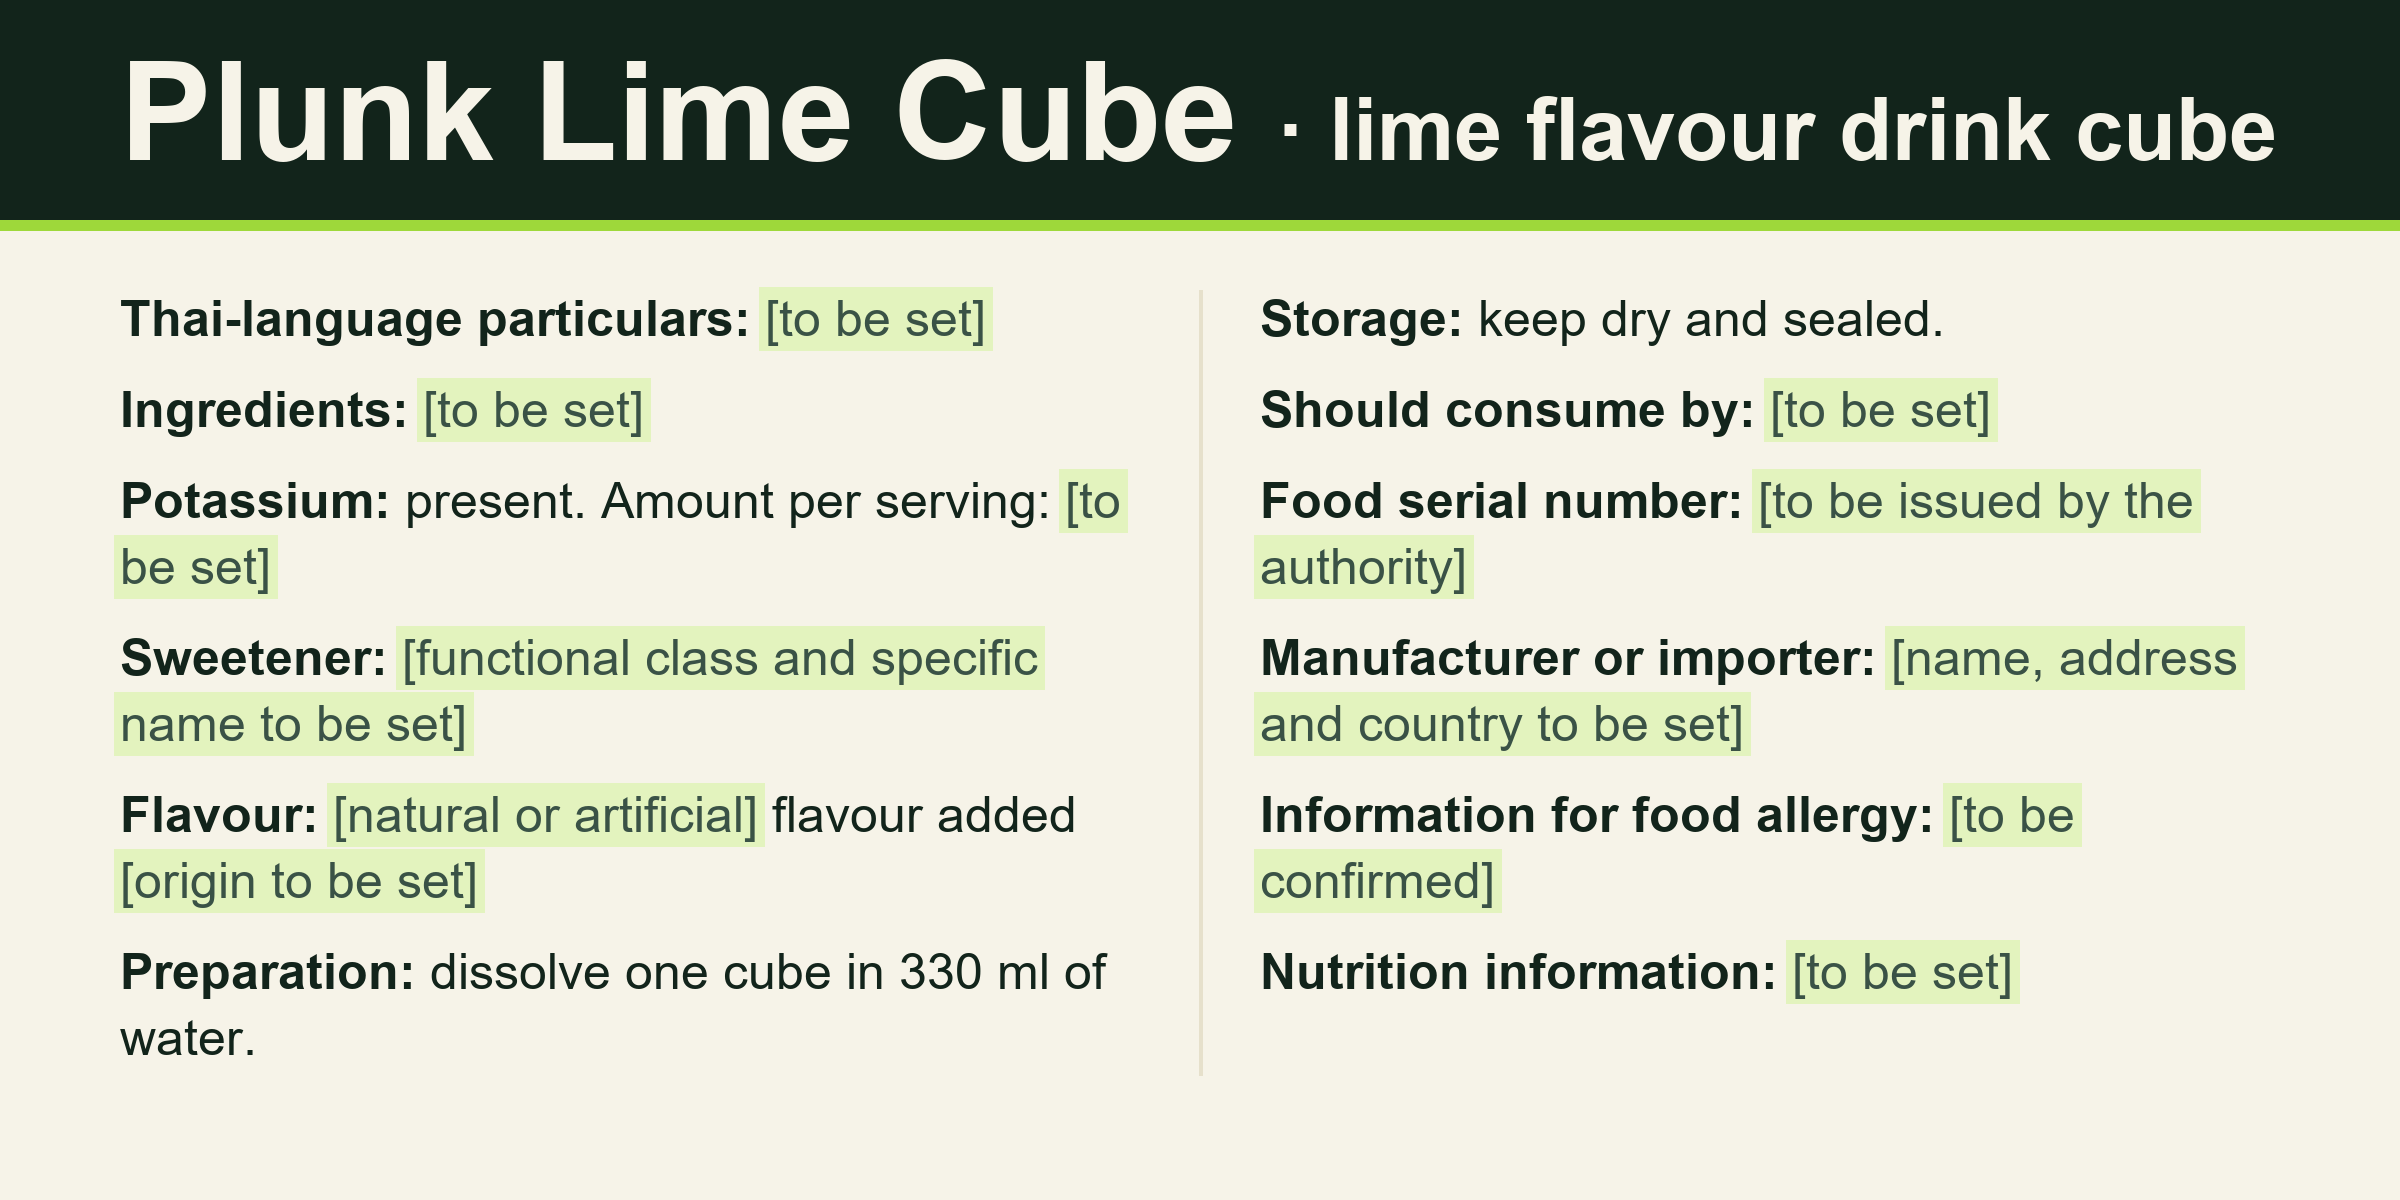
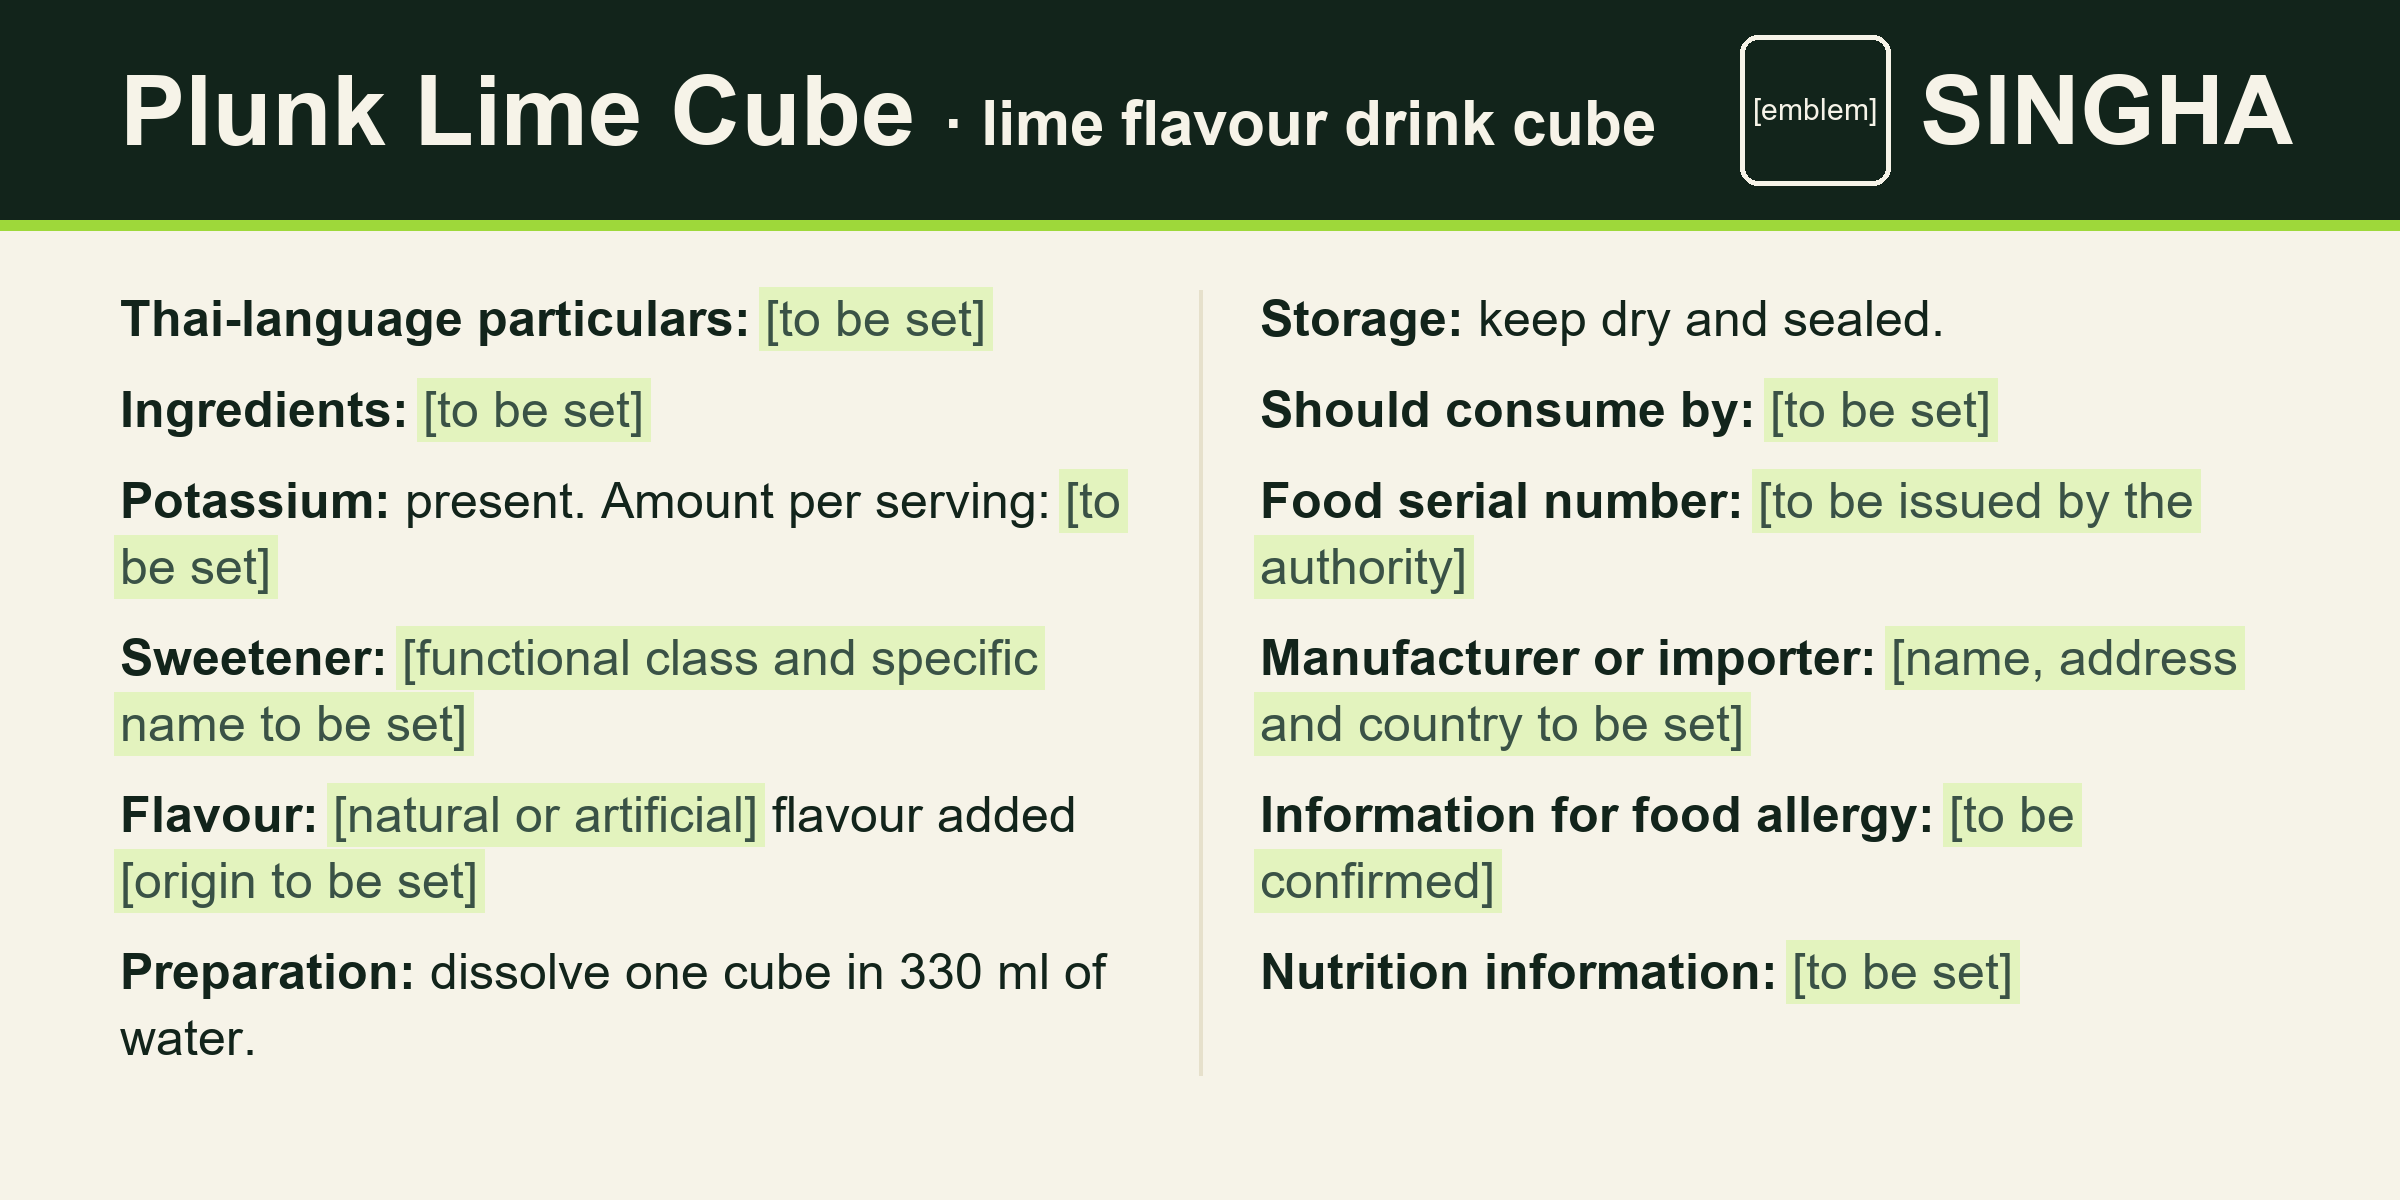
Add the SINGHA wordmark and an emblem slot to the label; allow the authorized marks in the wording check
The SINGHA name and lion emblem are authorized for the product proposal. The
front and back label now carry a SINGHA mark row with an emblem slot. The
emblem artwork is not yet on disk, so the slot stays a placeholder. The
wording check no longer forbids the words emblem or wordmark, and the SINGHA
digest is removed. Other organiser terms stay blocked.

Changed region(s): [[0.0312, 0.0308, 0.9688, 0.1542]]

diff --git a/rework/mockup/cube_3d.html b/rework/mockup/cube_3d.html
@@ -383,23 +383,43 @@ function drawIsoCube(ctx, cx, cy, a) {
   poly([F, R, RB, FB], C['lime-deep']);
 }
 
+function drawMark(ctx) {
+  // SINGHA wordmark and an emblem slot on the mark row (top 120 px). The emblem artwork is not yet supplied.
+  const slot = 90;
+  const top = 15;
+  ctx.fillStyle = C['off-white'];
+  ctx.font = fontFor(800, 6);
+  const word = 'SINGHA';
+  const wordX = LABEL_W - MARGIN - ctx.measureText(word).width;
+  ctx.fillText(word, wordX, 85);
+  const slotX = wordX - 20 - slot;
+  ctx.strokeStyle = C['off-white'];
+  ctx.lineWidth = 3;
+  ctx.strokeRect(slotX, top, slot, slot);
+  ctx.font = fontFor(400, 2);
+  ctx.textAlign = 'center';
+  ctx.fillText('[emblem]', slotX + slot / 2, top + slot / 2 + 7);
+  ctx.textAlign = 'left';
+}
+
 function drawFront(ctx) {
   ctx.save();
   ctx.textBaseline = 'alphabetic';
   ctx.textAlign = 'left';
   ctx.fillStyle = C['off-white'];
   ctx.fillRect(0, 0, LABEL_W, LABEL_H);
-  ctx.fillStyle = C.ink;                      // top name band, deep ink (not the can's lime field)
-  ctx.fillRect(0, 0, LABEL_W, 80);
-  drawNameLine(ctx, 54);
+  ctx.fillStyle = C.ink;                      // top band, deep ink: mark row, then name row
+  ctx.fillRect(0, 0, LABEL_W, 220);
+  drawMark(ctx);
+  drawNameLine(ctx, 175);
+  ctx.fillStyle = C.lime;                     // thin accent rule under the band
+  ctx.fillRect(0, 220, LABEL_W, 10);
   ctx.fillStyle = C['off-white-deep'];        // middle band, cube artwork
-  ctx.fillRect(0, 80, LABEL_W, 400);
-  ctx.fillStyle = C.lime;                     // thin accent rule under the name band
-  ctx.fillRect(0, 80, LABEL_W, 10);
-  drawIsoCube(ctx, LABEL_W / 2, 280, 100);
+  ctx.fillRect(0, 230, LABEL_W, 400);
+  drawIsoCube(ctx, LABEL_W / 2, 430, 100);
   ctx.fillStyle = C.ink;
-  ctx.fillRect(0, 480, LABEL_W, 4);
-  let y = 530;                                // bottom band, particulars
+  ctx.fillRect(0, 630, LABEL_W, 4);
+  let y = 680;                                // bottom band, particulars
   for (const item of TOKENS.copyFront.slice(1)) {
     const lines = layoutSegs(ctx, segsFor(item, TOKENS.typeMm.particulars.size), LIVE_W);
     y = drawLines(ctx, lines, MARGIN, y, BODY_LH) + LINE_GAP;
@@ -415,13 +435,12 @@ function drawBack(ctx) {
   ctx.fillStyle = C['off-white'];
   ctx.fillRect(0, 0, LABEL_W, LABEL_H);
   ctx.fillStyle = C.ink;
-  ctx.fillRect(0, 0, LABEL_W, 80);
+  ctx.fillRect(0, 0, LABEL_W, 220);
+  drawMark(ctx);
+  drawNameLine(ctx, 175);
   ctx.fillStyle = C.lime;
-  ctx.fillRect(0, 80, LABEL_W, 10);
-  ctx.fillStyle = C['off-white'];
-  ctx.font = fontFor(TOKENS.typeMm.tradeName.weight, TOKENS.typeMm.tradeName.size);
-  ctx.fillText(TOKENS.copyFront[0].split(' · ')[0], MARGIN, 54);
-  let y = 136;
+  ctx.fillRect(0, 220, LABEL_W, 10);
+  let y = 276;
   for (const item of TOKENS.copyBack) {
     const lines = layoutSegs(ctx, segsFor(item, TOKENS.typeMm.particulars.size), LIVE_W);
     y = drawLines(ctx, lines, MARGIN, y, BODY_LH) + LINE_GAP;

diff --git a/rework/mockup/make_label.py b/rework/mockup/make_label.py
@@ -39,15 +39,15 @@ FORBIDDEN = [
     r"gluten", r"keto", r"recycl", r"compost", r"plastic[- ]free", r"juice", r"real\s+lime",
     r"fruit", r"hydrat", r"electrolyte", r"immun", r"energy", r"digest", r"healthy", r"calorie",
     r"beer", r"alcohol", r"cocktail", r"mocktail", r"\bgin\b", r"spritz", r"tonic", r"\bbar\b",
-    r"happy\s+hour", r"amber", r"\bgold", r"copper", r"emblem", r"mascot", r"wordmark", r"royal",
+    r"happy\s+hour", r"amber", r"\bgold", r"copper", r"mascot", r"royal",
     r"insignia", r"crest", r"glass", r"bottle", r"night", r"kidney", r"muscle", r"\bheart\b",
     r"made\s+with", r"\bfresh\b", r"\bvitamin", r"\bsource\s+of\b",
 ]
 
-# Organiser name and mark words are held only as SHA-256 digests of the lowercase word, so
+# Organiser terms other than the SINGHA name and lion emblem (authorized by the user, 18 October 2026)
+# are held only as SHA-256 digests of the lowercase word, so
 # this judge-facing file does not spell them out. A word matches if its digest is listed.
 ORGANISER_DIGESTS = frozenset({
[4 lines of base64/hex data omitted]
@@ -186,20 +186,21 @@ def draw_block(p, laid, x0, y0, size, theme):
     return y
 
 
-def name_line(p, text, band_h, ink):
+def name_line(p, text, band_h, ink, max_w=None):
     """Trade name and type name on one line (clause 14(3) in the notes): trade 3.8 mm, type 2.4 mm."""
     trade, rest = text.split(" · ", 1)
     type_str = "· " + rest
     size = 150
+    limit = max_w or (W - 2 * MARGIN)
     while True:
         ft = font(True, size)
         fs = font(True, round(size * 2.4 / 3.8))
         gap = ft.getlength(" ")
         width = ft.getlength(trade) + gap + fs.getlength(type_str)
-        if width <= W - 2 * MARGIN or size <= 60:
+        if width <= limit or size <= 60:
             break
         size -= 2
-    if width > W - 2 * MARGIN:
+    if width > limit:
         raise SystemExit("name line does not fit the band")
     asc, desc = ft.getmetrics()
     cap_h = -ft.getbbox("H", anchor="ls")[1]
@@ -237,6 +238,17 @@ def themes(C):
     return light, dark
 
 
+def draw_mark(p, C):
+    """SINGHA wordmark and an emblem slot on the top band, right side. The emblem artwork is not yet supplied."""
+    d = p.draw
+    x0, y0, s = 1740, 35, 150
+    d.rounded_rectangle([x0, y0, x0 + s, y0 + s], radius=18, outline=C["off-white"], width=5)
+    ph = font(False, 30)
+    d.text((x0 + s / 2 - ph.getlength("[emblem]") / 2, y0 + s / 2 + 10), "[emblem]", font=ph, fill=C["off-white"], anchor="ls")
+    wf = font(True, 96)
+    d.text((x0 + s + 30, y0 + s / 2 + 34), "SINGHA", font=wf, fill=C["off-white"], anchor="ls")
+
+
 def build_front(tok, C, name):
     cf = tok["copy_front"]
     drop = pick(cf, "Drop one cube")
@@ -254,7 +266,8 @@ def build_front(tok, C, name):
     band_top = 220
     d.rectangle([0, 0, W, band_top], fill=C["ink"])
     d.rectangle([0, band_top, W, band_top + 10], fill=C["lime"])
-    name_line(p, name, band_top, C["off-white"])
+    name_line(p, name, band_top, C["off-white"], max_w=1560)
+    draw_mark(p, C)
 
     # Middle band: cube on a lime-pale panel, instruction copy on the right.
     d.rounded_rectangle([MARGIN, 260, 1000, 860], radius=40, fill=C["off-white-deep"])
@@ -323,7 +336,8 @@ def build_back(tok, C, name):
     band_top = 220
     d.rectangle([0, 0, W, band_top], fill=C["ink"])
     d.rectangle([0, band_top, W, band_top + 10], fill=C["lime"])
-    name_line(p, name, band_top, C["off-white"])
+    name_line(p, name, band_top, C["off-white"], max_w=1560)
+    draw_mark(p, C)
 
     top_y = 290
     col_w = 1020
